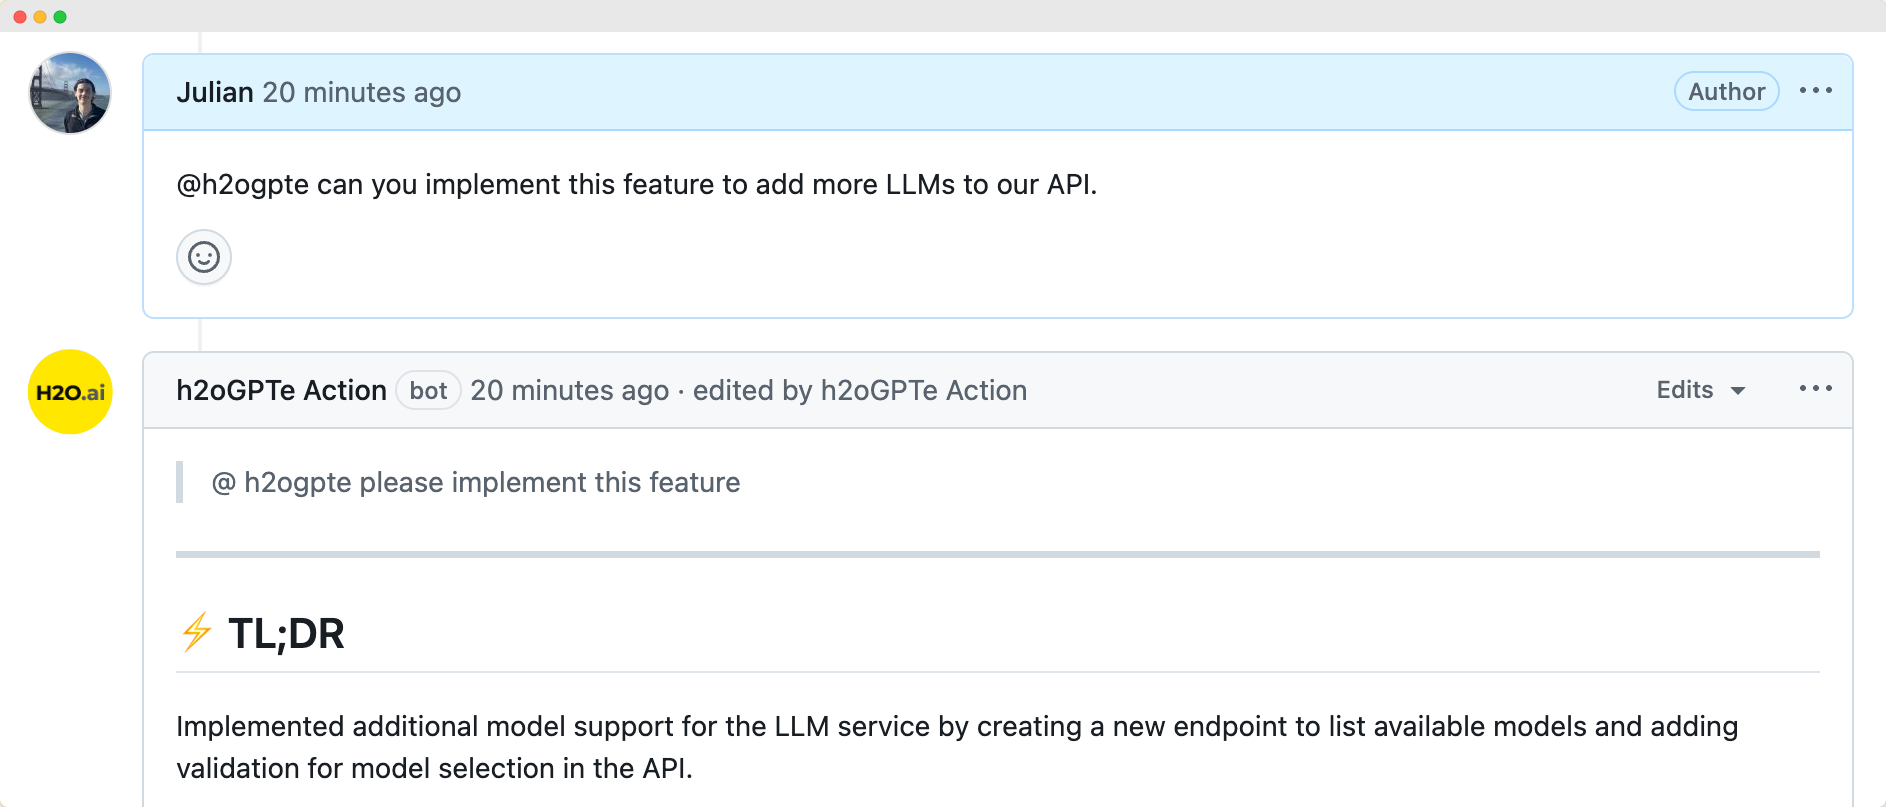
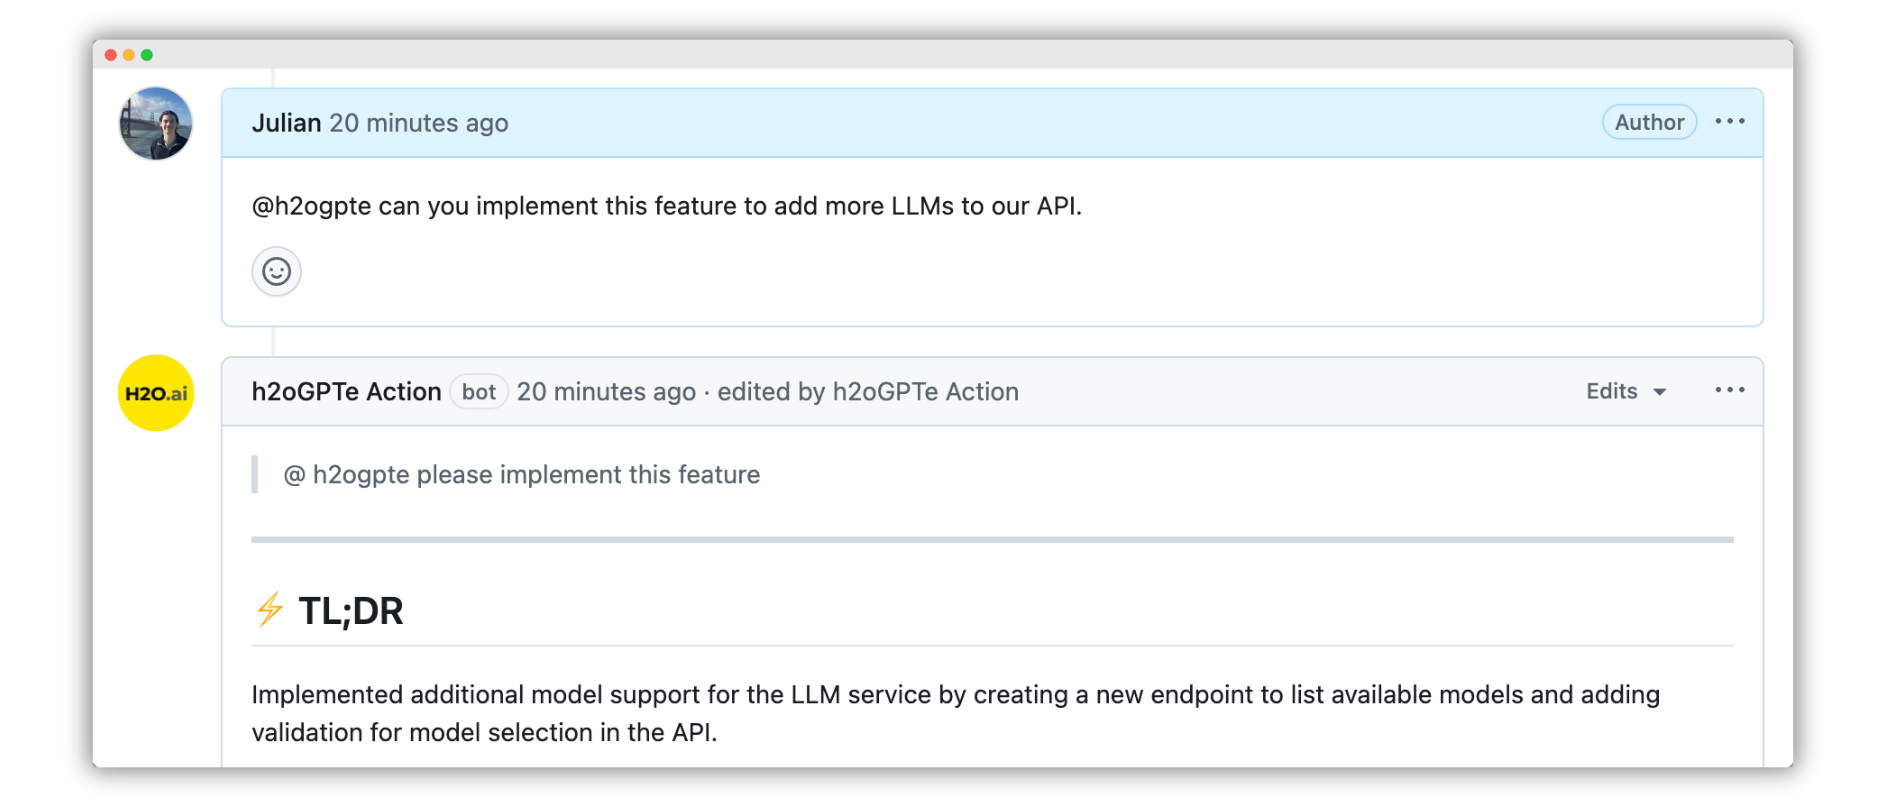
docs(readme): manual border shadow on h2ogpte comment image hero

diff --git a/README.md b/README.md
@@ -1,8 +1,6 @@
 # h2oGPTe GitHub Action
 
-<div align="center">
-  <img src="docs/images/h2ogpte_hero.png" alt="h2oGPTe responding to a comment" style="box-shadow: 0 4px 8px rgba(0,0,0,0.1); border-radius: 8px;">
-</div>
+![h2oGPTe responding to a comment](docs/images/h2ogpte_hero.png)
 
 The h2oGPTe GitHub Action brings intelligent AI assistance directly into your GitHub workflow. Simply tag `@h2ogpte` in any comment, issue, or pull request, and the agent will provide instant AI-powered code review feedback, understand your codebase context, and even write code and make commits when requested.
 
